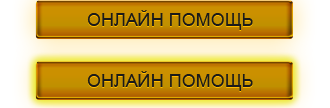
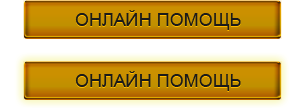
ttt

diff --git a/catalog/view/theme/default/stylesheet/style.css b/catalog/view/theme/default/stylesheet/style.css
@@ -304,23 +304,37 @@ ul.menu-horizontal > li {
    /* background: #ffe4c4;*/
 }
 
-.content .build-dream-house-title, .content .interesting-proposal-title {
-    height: 31px;
+.content .build-dream-house-title, .content .interesting-proposal-title, .about-us-header {
+    height: 29px;
     margin: 65px 0 32px 0;
 }
 
 .content .build-dream-house-title {
-    background: url('../image/build-dream-house-title.png') no-repeat 0 0;
+    background: url('../image/build-dream-house-title-ru.png') no-repeat 0 0;
 }
 
-.content .interesting-proposal-title {
-    background: url('../image/interesting-proposal-title.png') no-repeat 0 0;
+.content .interesting-proposal-title, .about-us-header {
     cursor: pointer;
     margin-top: 55px;
 }
 
-.content .interesting-proposal-title:hover {
-   /* background-position: 0 -30px;*/
+.content .interesting-proposal-title {
+    background: url('../image/interesting-proposal-title-ru.png') no-repeat 0 0;
+}
+
+.about-us-header {
+    background: url('../image/about_us-ru.png') no-repeat 0 0;
+}
+
+.useful-info-image-header {
+    background: url('../image/info-ru.png') no-repeat 0 0;
+    width: 500px;
+    height: 29px;
+}
+
+
+.content .interesting-proposal-title:hover, .about-us-header:hover {
+    background-position: 0 -30px;
 }
 
 .content .left {
@@ -436,10 +450,6 @@ ul.house-characteristics li.house-area {
 
 ul.house-characteristics li.house-bedroom {
     background: url('../image/build-dream-house-icons.png') no-repeat 0 -80px;
-}
-
-.about-us-header {
-    padding-bottom: 31px;
 }
 
 .about-us-content .picture {
@@ -834,13 +844,13 @@ form tr.row-separator {
 #online-help a {
     display: block;
     height: 40px;
-    background: url('../image/online-help.png') no-repeat -31px 3px #000;
+    background: url('../image/online-help.png') no-repeat -22px 3px #000;
 }
 
 #online-help a:hover {
     display: block;
     height: 40px;
-    background: url('../image/online-help.png') no-repeat -31px -58px #000;
+    background: url('../image/online-help.png') no-repeat -22px -58px #000;
     padding: 5px;
     width: 100%;
 }
